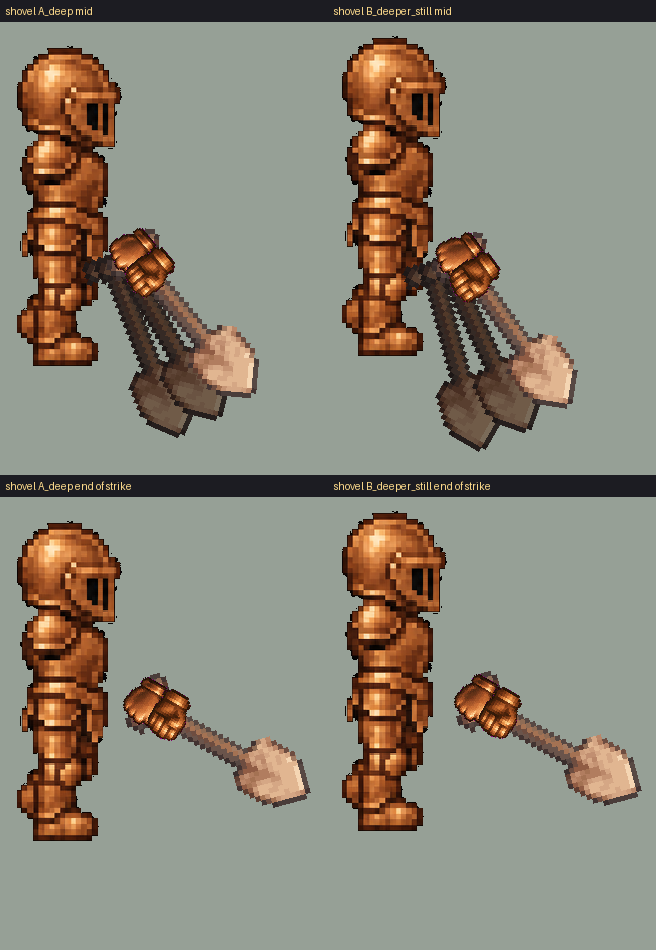
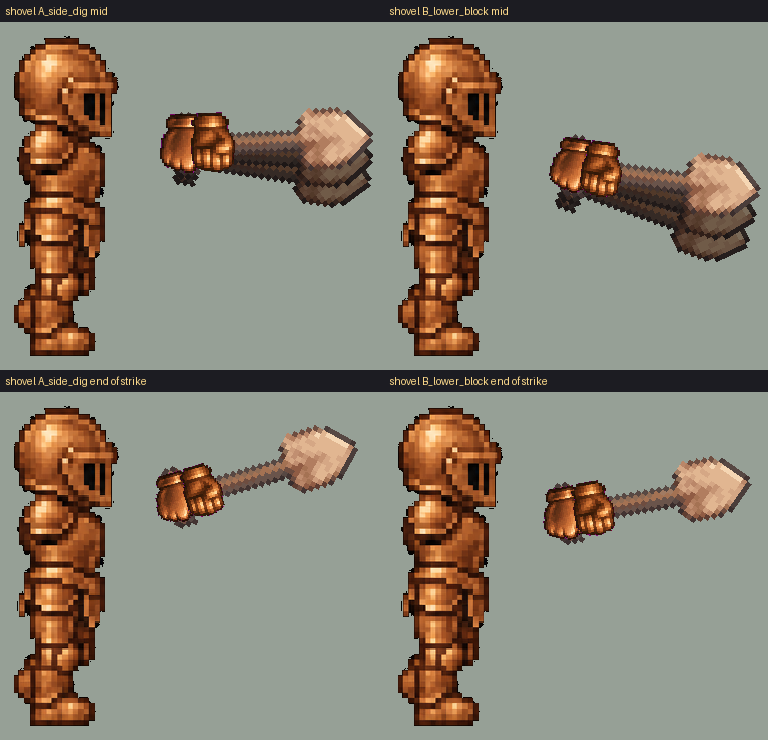
Shovel digs the block BESIDE him, from the hip
"with shoveling the hands start closer to the hip and this is a block based world
so when standing sideways you are digging dirt to the side of you not below you"

I had him jabbing at the ground under his feet. In a block world, facing sideways
means breaking the ADJACENT block - a downward jab is the facing-down animation.

Now a roughly horizontal drive into the next cell, starting with the hands at the
hip rather than already extended:

  hand reaches +0.17 -> +0.72 cells forward, 29%-39% down the body
  a cell is 1.0, and the block beside him runs from +0.3 to +1.3

B_lower_block aims further under horizontal for the block at his feet.

Recorded the general rule in both docs: aim the tool at the block it is actually
breaking, and working tools start at the hip because the reach IS the stroke.

diff --git a/tools/player_sprites/swing_tools.py b/tools/player_sprites/swing_tools.py
@@ -86,19 +86,22 @@ TOOLS = {
                     (-78, -30, 0.44)),
     }),
     "shovel": ("shovel_copper_icon.png", True, {
-        # THRUST IN, then swing up JUST A LITTLE, then return. Owner: "you are supposed to thrust in and
-        # then swing up just a little before returning."
+        # ⚠ THIS IS A BLOCK WORLD. Standing sideways he is digging the block BESIDE him, not the ground
+        # under his feet. Owner: "this is a block based world so when standing sideways you are digging
+        # dirt to the side of you not below you." So the thrust is roughly HORIZONTAL into the adjacent
+        # cell — a downward jab would be the facing-down animation, digging the block below.
         #
-        # The motion is REACH (driving the blade into the ground), and the lift is a SMALL angular change
-        # at the end — the blade never leaves the ground line. My previous version levered the handle right
-        # over and heaved the load up past his shoulder, which is a completely different action and looked
-        # nothing like a shovel.
-        "A_deep": ((-48, 22, 0.32),
-                   [(-64, 10, 0.56), (-78, 0, 0.80), (-62, 12, 0.78), (-50, 20, 0.70)],
-                   (-50, 24, 0.36)),
-        "B_deeper_still": ((-46, 24, 0.30),
-                           [(-66, 8, 0.58), (-82, -4, 0.90), (-64, 10, 0.86), (-50, 20, 0.76)],
-                           (-48, 26, 0.34)),
+        # A cell is half his body height, so the block beside him spans his lower half. Aiming a little
+        # under horizontal puts the blade into it.
+        #
+        # AND THE HANDS START AT THE HIP, close in — not already extended. Owner: "with shoveling the
+        # hands start closer to the hip".
+        "A_side_dig": ((-16, 12, 0.18),
+                       [(-16, 6, 0.44), (-14, 0, 0.74), (-6, 8, 0.72), (2, 14, 0.66)],
+                       (-16, 14, 0.20)),
+        "B_lower_block": ((-26, 14, 0.16),
+                          [(-28, 8, 0.46), (-26, 0, 0.80), (-16, 8, 0.78), (-6, 16, 0.70)],
+                          (-24, 16, 0.18)),
     }),
     "spear": ("spear_bronze_icon.png", True, {
         # COCKED BACK at the body, then driven forward. Reach is the entire motion.

diff --git a/docs/guides/art/CHARACTER_DESIGN_GUIDE.md b/docs/guides/art/CHARACTER_DESIGN_GUIDE.md
@@ -302,6 +302,15 @@ Owner: *"do sword_1h_f4_back85 as the official one, but have it pull back a tad 
 hand is at the hip not forward a little, you can also have tip slightly continue down more."*
 The other five tools still run the old shoulder-pivot approaches.
 
+**THIS IS A BLOCK WORLD — aim the tool at the BLOCK IT IS ACTUALLY BREAKING.** Standing sideways, he digs
+the block **beside** him, not the ground under his feet. Owner: *"this is a block based world so when
+standing sideways you are digging dirt to the side of you not below you."* So the side-view shovel is a
+roughly **horizontal** drive into the adjacent cell; a downward jab is the *facing-down* animation, which
+breaks the block below. A cell is half his body height, so the block beside him spans his lower half —
+aim a little under horizontal to land in it.
+
+**Working tools start at the HIP**, close in, not already extended. The reach is the stroke.
+
 **WHERE THE HANDS SIT — measure the sprite, do not assume.** Bronze's width profile: helmet to ~22% down,
 shoulders ~30%, waist ~50%, legs below 65%. The shoulder pivot (`SHOULDER`, 0.40 cells above body centre)
 lands at **30%** — correctly on the shoulder line. The character is **not** chibi; asserting that without

diff --git a/tools/_generated/player/README.md b/tools/_generated/player/README.md
@@ -122,6 +122,15 @@ a sweep **across the body that passes THROUGH** the tile being hit — never a t
 direction, which gives a reverse stab. 12 frames × 20ms = 0.24s: 1 anticipation, 4 strike (with a blade
 trail), 2 hold, 5 recovery.
 
+**THIS IS A BLOCK WORLD — aim the tool at the BLOCK IT IS ACTUALLY BREAKING.** Standing sideways, he digs
+the block **beside** him, not the ground under his feet. Owner: *"this is a block based world so when
+standing sideways you are digging dirt to the side of you not below you."* So the side-view shovel is a
+roughly **horizontal** drive into the adjacent cell; a downward jab is the *facing-down* animation, which
+breaks the block below. A cell is half his body height, so the block beside him spans his lower half —
+aim a little under horizontal to land in it.
+
+**Working tools start at the HIP**, close in, not already extended. The reach is the stroke.
+
 **WHERE THE HANDS SIT — measure the sprite, do not assume.** Bronze's width profile: helmet to ~22% down,
 shoulders ~30%, waist ~50%, legs below 65%. The shoulder pivot (`SHOULDER`, 0.40 cells above body centre)
 lands at **30%** — correctly on the shoulder line. The character is **not** chibi; asserting that without

diff --git a/tools/_generated/player/reviews/2026-08-04-swing-tools/README.md b/tools/_generated/player/reviews/2026-08-04-swing-tools/README.md
@@ -17,7 +17,7 @@ channel carries the motion — angle, or reach.
 | **axe** | CHOP | a big arc that **bites and STOPS**. A real axe does not follow through past the wood |
 | **hoe** | TILL | chop in, then **DRAG back** toward you. The drag is the working stroke, not the chop |
 | **net** | CATCH | **starts low, ends low**, hoop-first and angled up. You scoop a bug off the ground — your hand does not finish beside your face |
-| **shovel** | DIG | **thrust the blade in**, then swing up **just a little**, then return. Reach does the digging; the lift is a small angular change at the end and the blade never leaves the ground line |
+| **shovel** | DIG | hands start at the **hip**, then drive roughly **horizontally into the block beside him** — block world, sideways means the adjacent block, not the ground. Small lift, return. Two-handed |
 | **spear** | THRUST | cocked back, driven forward, **aimed below horizontal** so the hands sit at chest/waist rather than shoulder height. Reach is the entire motion |
 
 **Reach shrinking while the tool stays low IS the drag and the lever. Reach growing with a still angle IS
